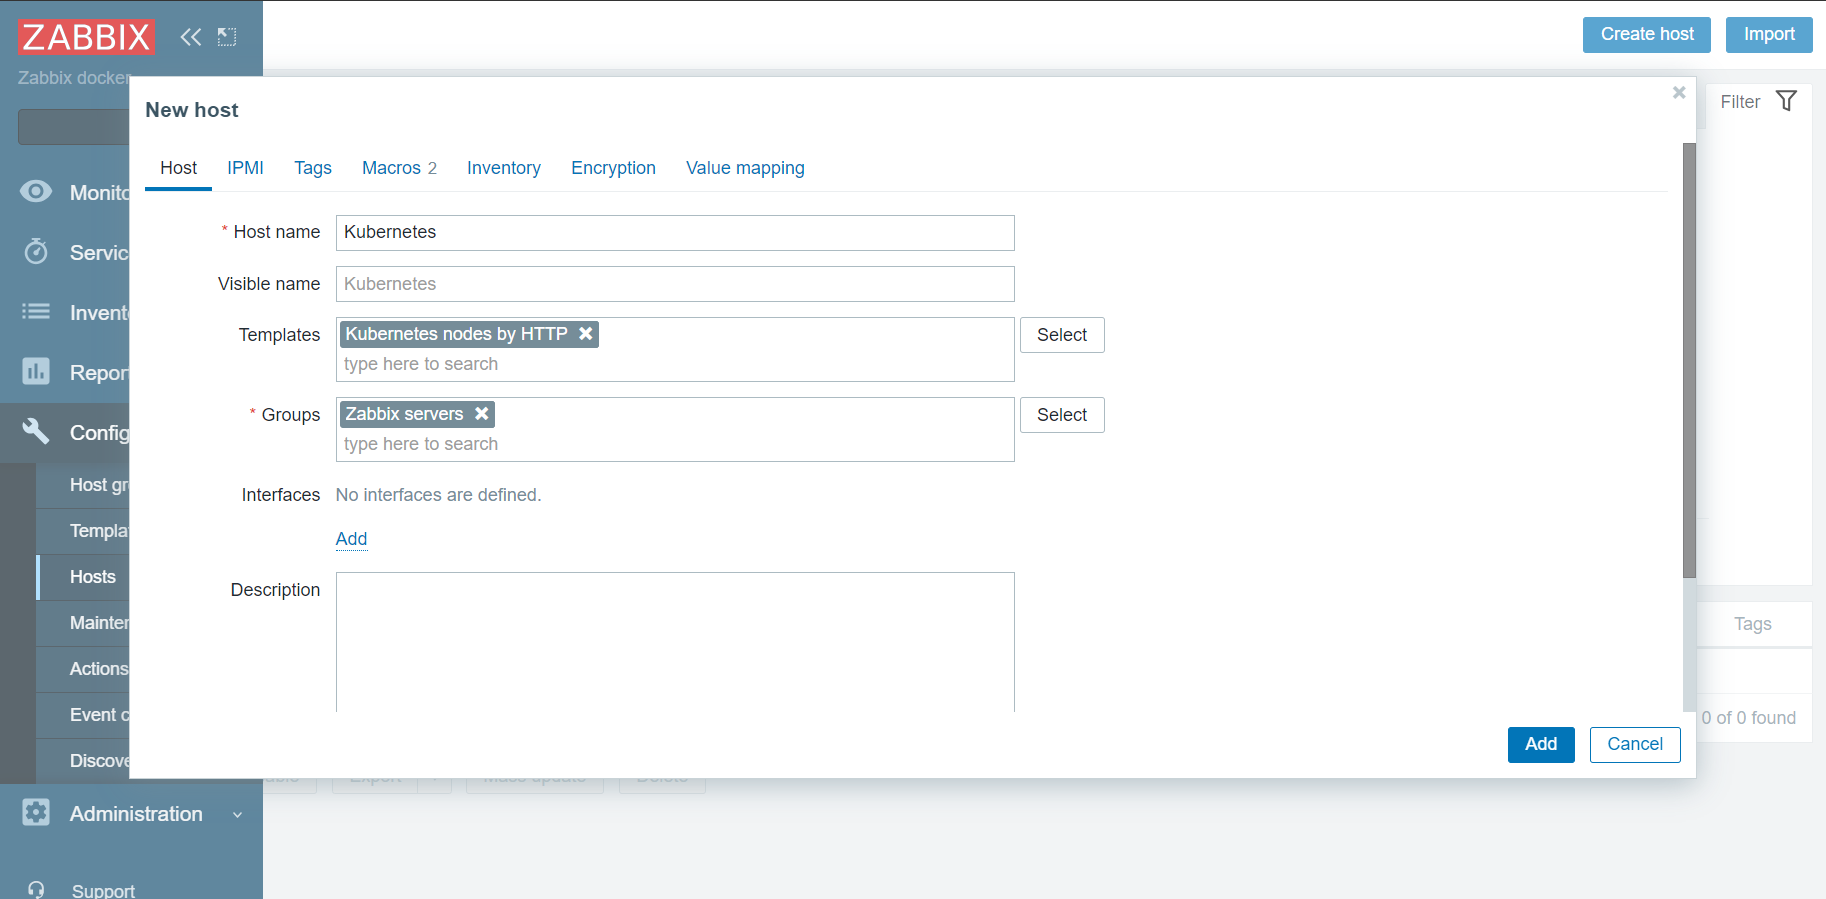
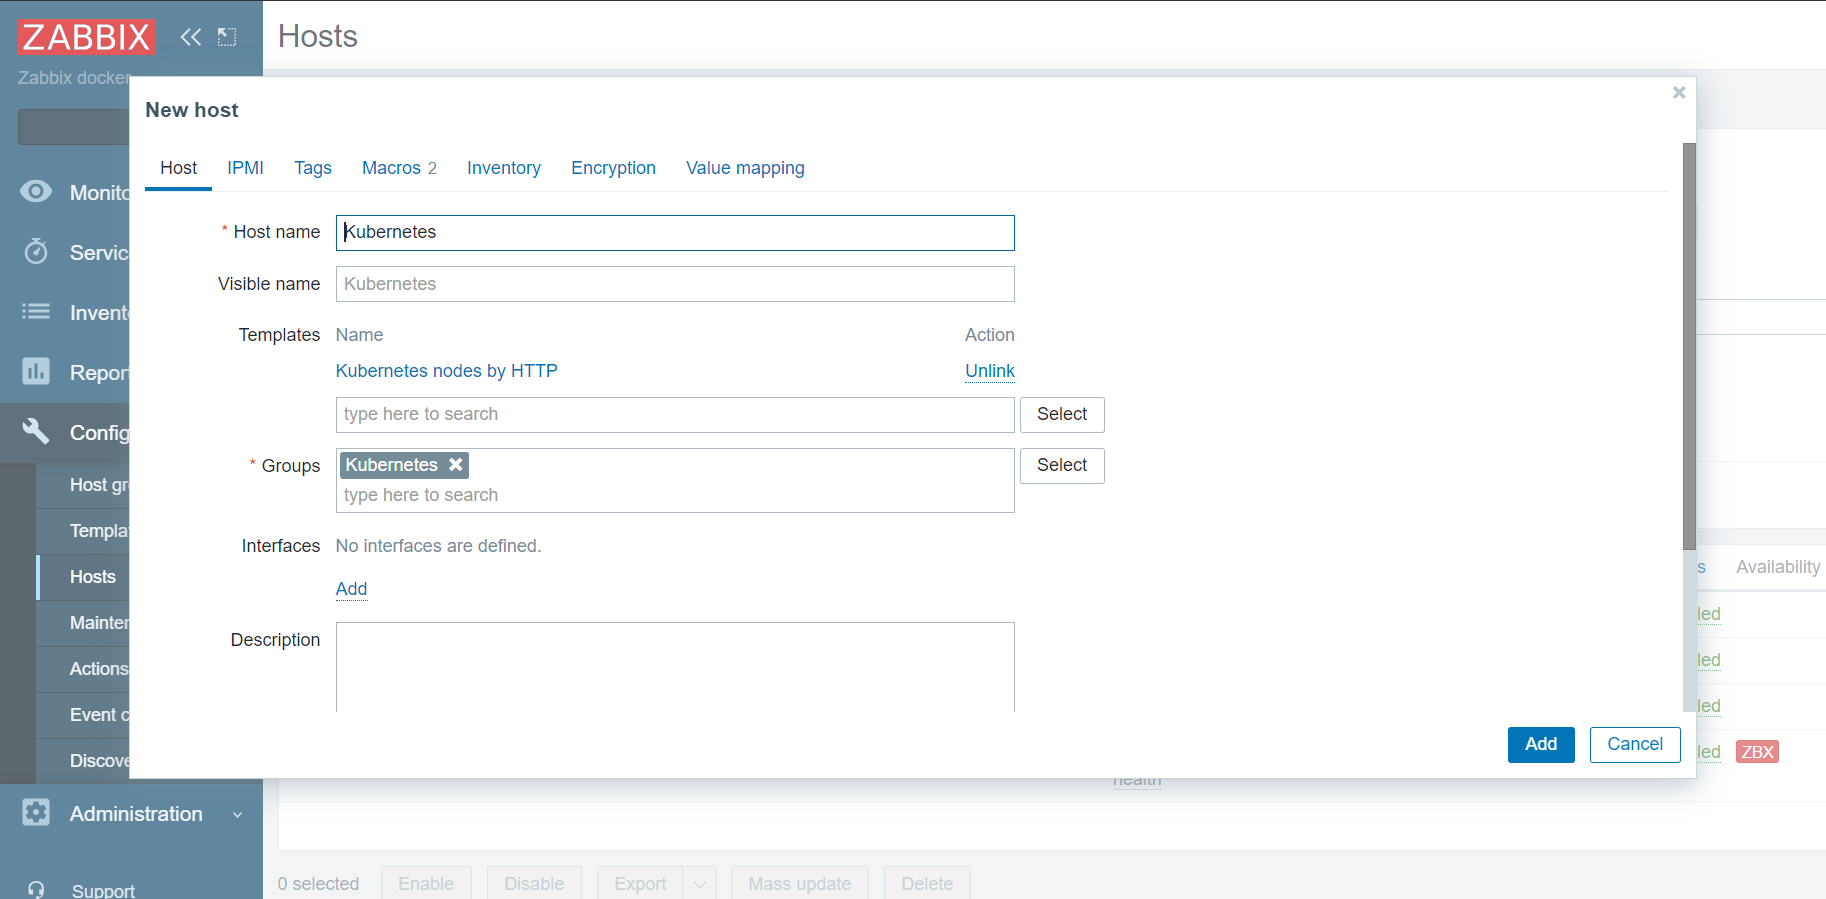
finish

diff --git a/README.md b/README.md
@@ -122,10 +122,14 @@ docker compose up -d
 И переходим по http://localhost:8080/
 ![alt text](./screenshots/3-1.png)
 Логин: admin. Пароль: zabbix.
-- Настройка мониторинга узлов
+- Настройка мониторинга узлов кластера Kubernetes
 Создадим новый хост и внесем токен доступа:
 ![alt text](./screenshots/3-2.png)
 ![alt text](./screenshots/3-3.png)
+- Настройка мониторинга состояния кластера Kubernetes
+Создадим новый хост и внесем токен доступа:
+![alt text](./screenshots/3-4.png)
+![alt text](./screenshots/3-5.png)
 ## Destroy
 ```bash
 vagrant destroy -f 
